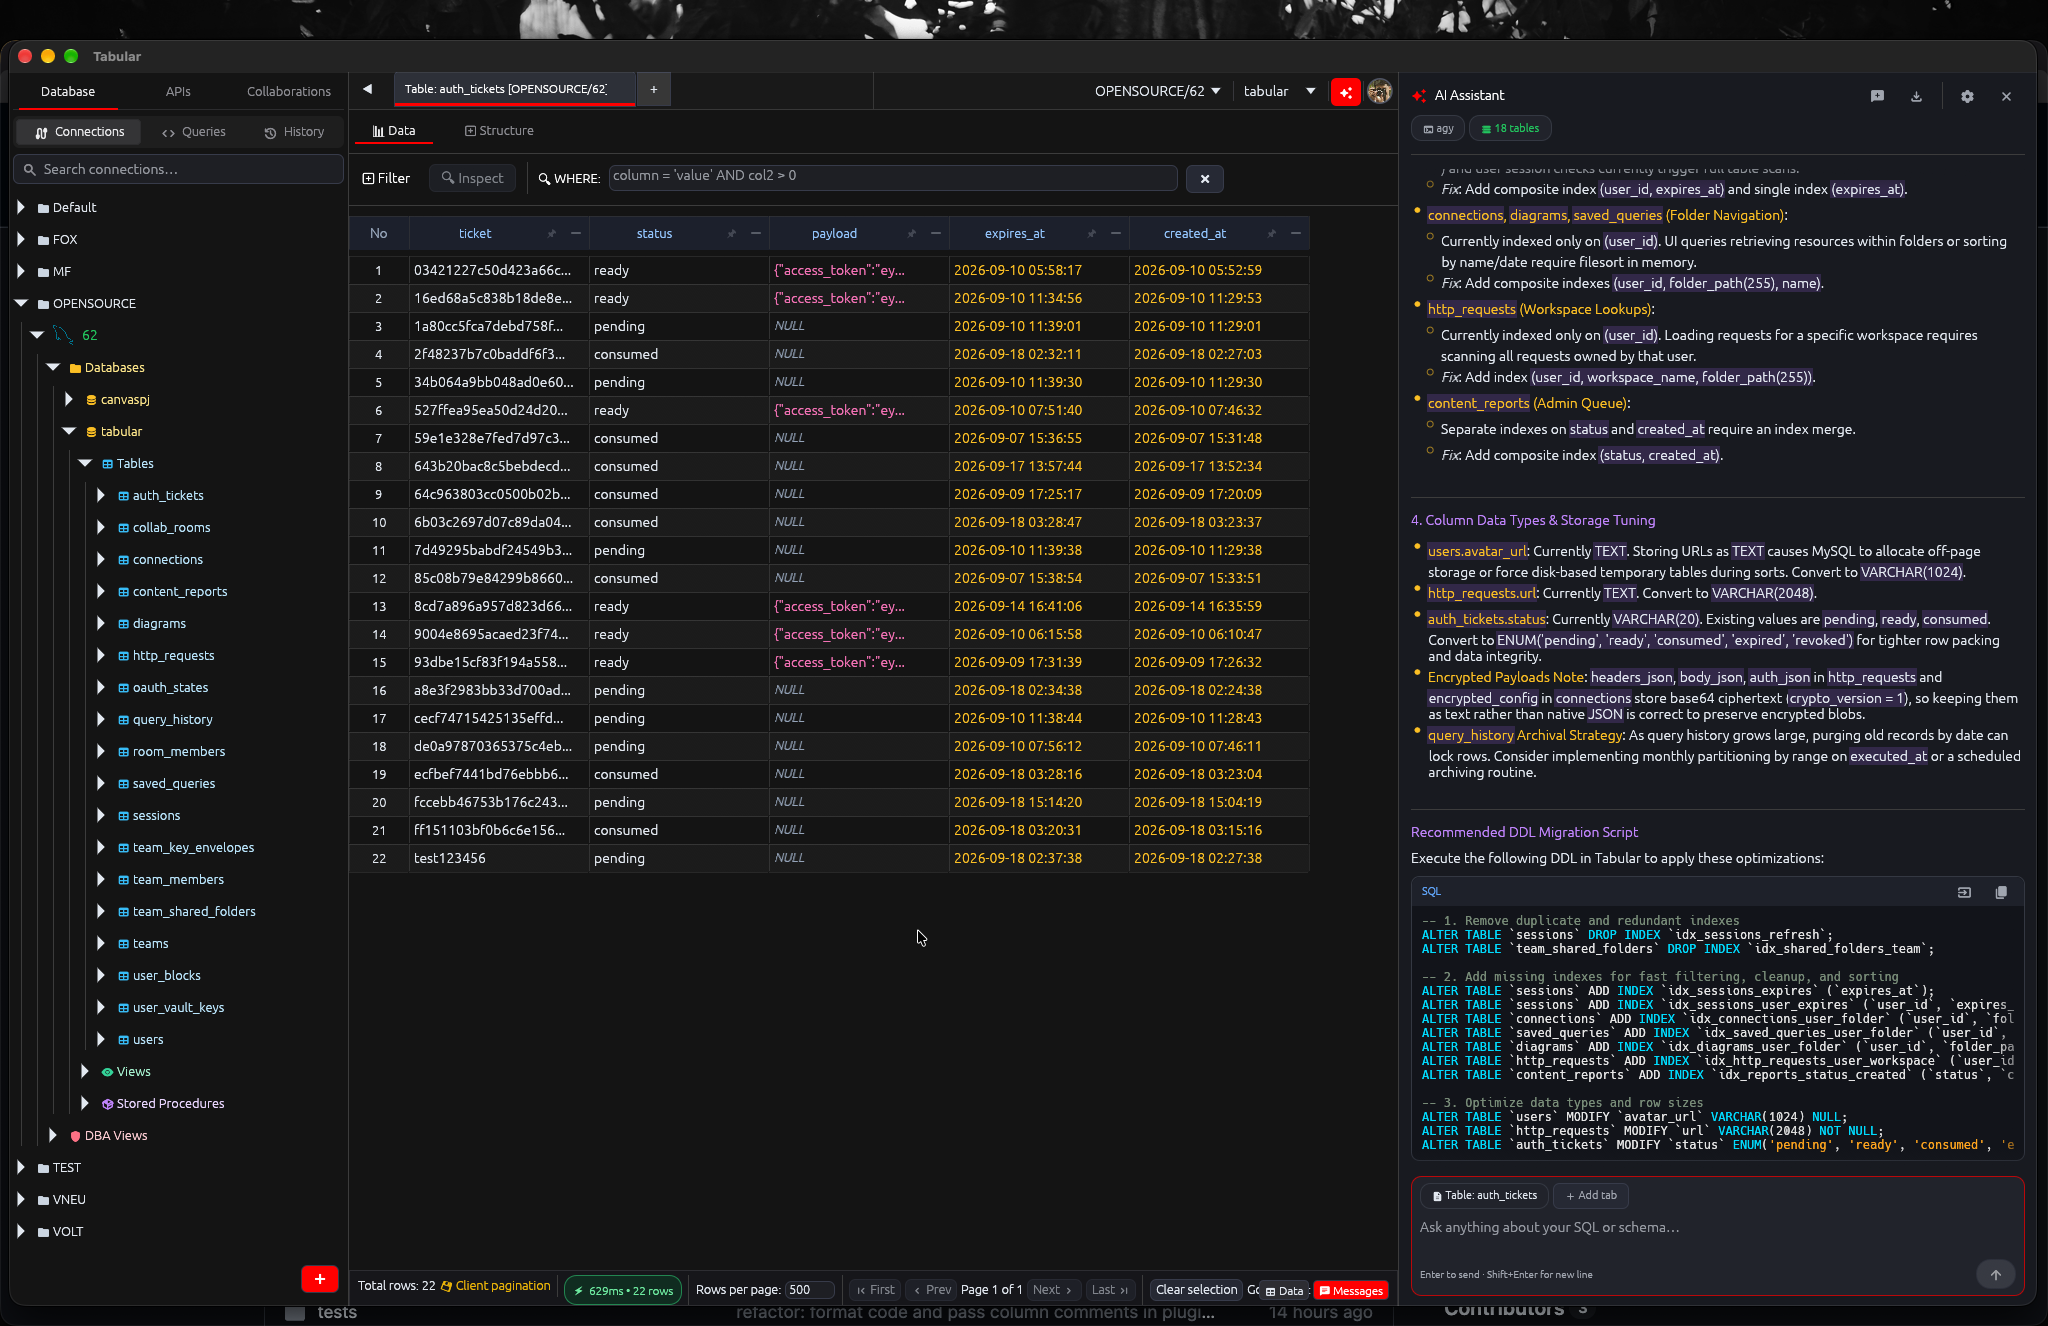
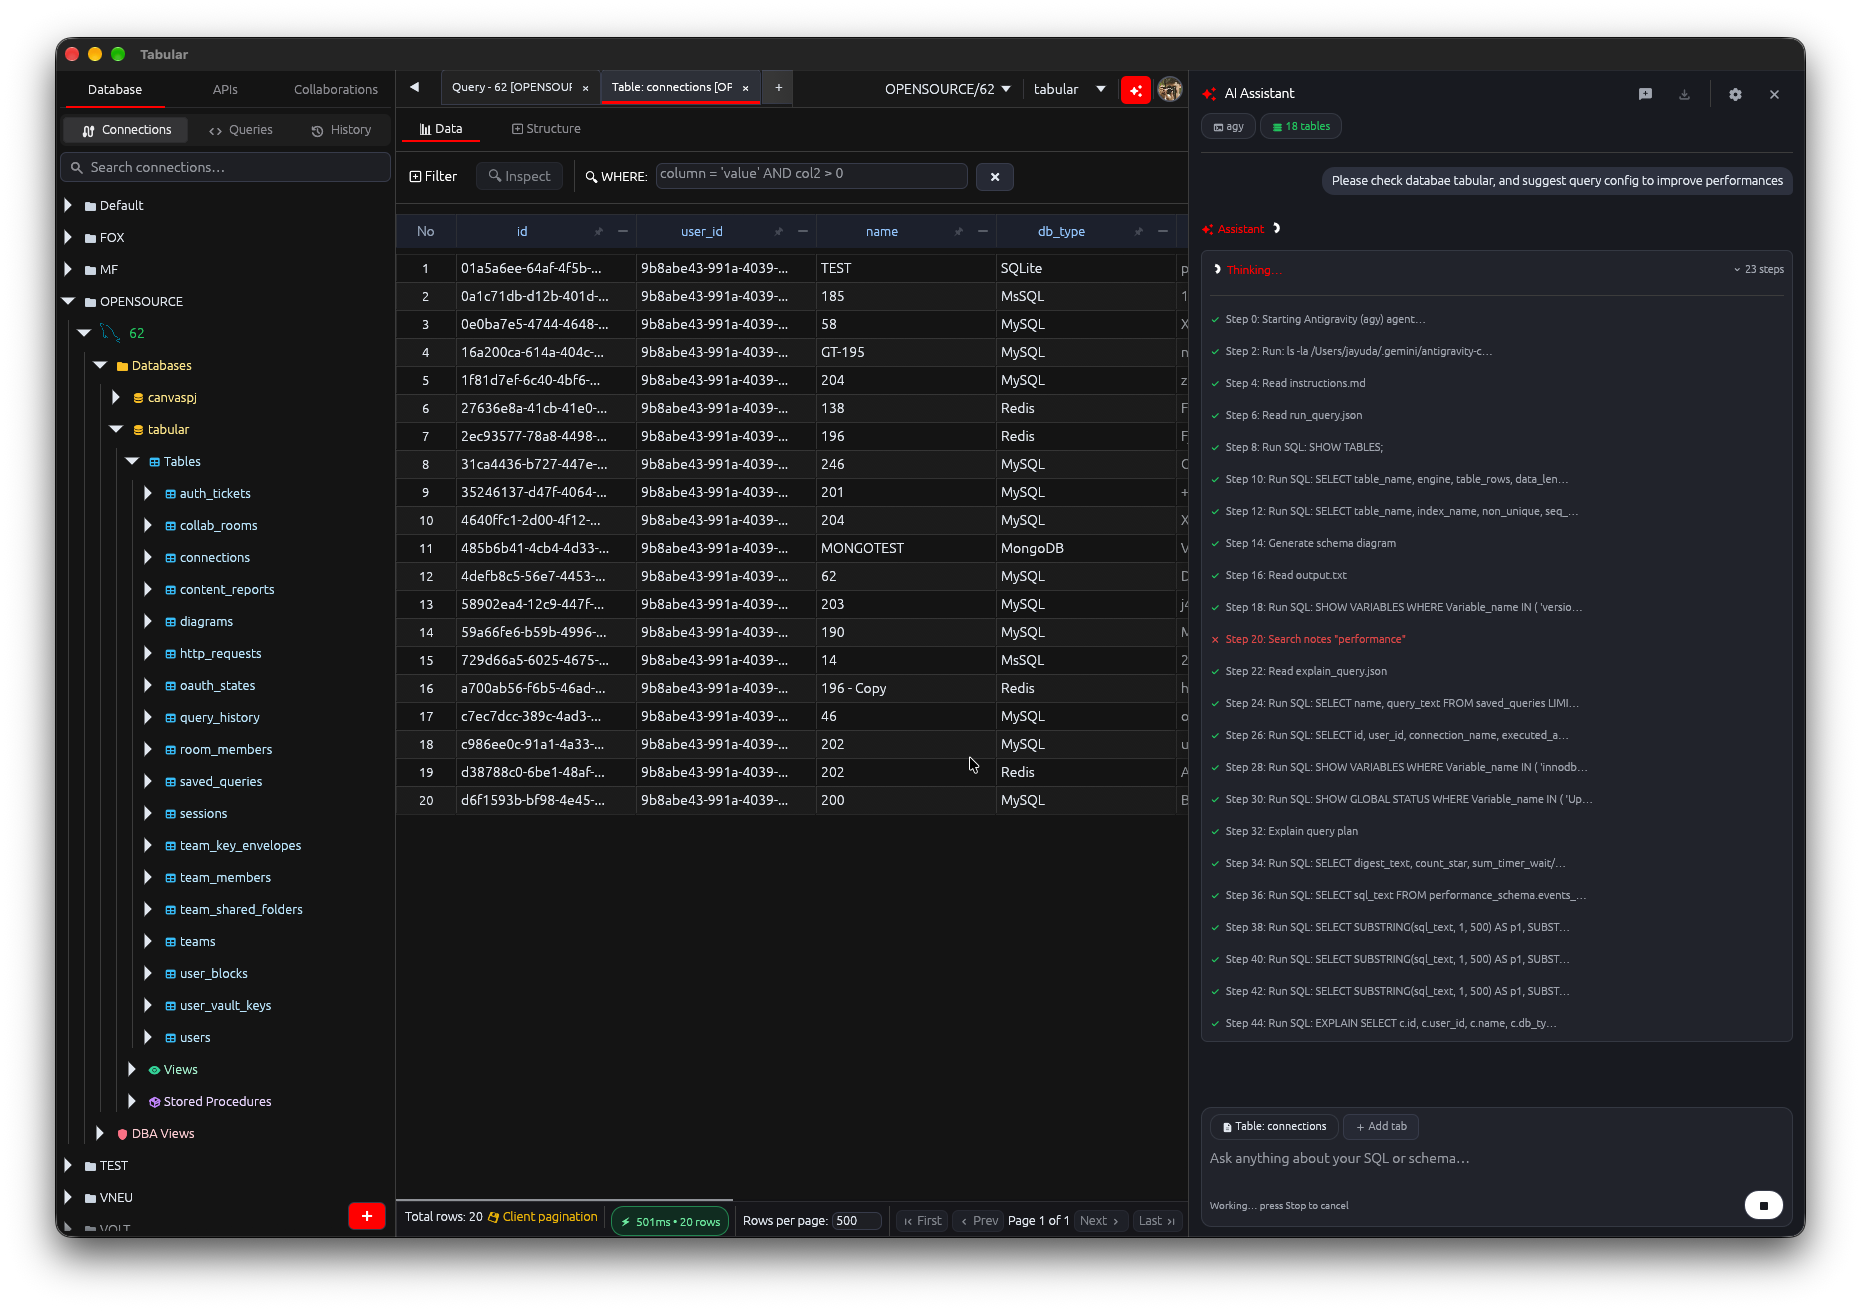
chore: bump version to 1.0.0 across project files

diff --git a/src/data_table/render_structure.rs b/src/data_table/render_structure.rs
@@ -403,43 +403,41 @@ pub(crate) fn render_structure_view(tabular: &mut window_egui::Tabular, ui: &mut
 
     ui.separator();
     ui.add_space(2.0);
-    egui::ScrollArea::both()
-                .id_salt("structure_scroll")
-                .auto_shrink([false, false])
-                .show(ui, |ui| {
-                    match tabular.structure_sub_view {
-                        models::structs::StructureSubView::Columns => {
-                            render_structure_columns_editor(tabular, ui);
-                        }
-                        models::structs::StructureSubView::Indexes => {
-                            // Headers: No | index_name | algorithm | unique | columns | actions
-                            let headers = [
-                                "#",
-                                "index_name",
-                                "algorithm",
-                                "unique",
-                                "columns",
-                                "actions",
-                            ];
-                            if tabular.structure_idx_col_widths.len() != headers.len() {
-                                tabular.structure_idx_col_widths =
-                                    vec![40.0, 200.0, 120.0, 70.0, 260.0, 120.0];
-                            }
-                            let mut widths = tabular.structure_idx_col_widths.clone();
-                            for w in widths.iter_mut() {
-                                *w = w.clamp(40.0, 800.0);
-                            }
-                            let dark = ui.visuals().dark_mode;
-                            let border = if dark {
-                                egui::Color32::from_rgb(55, 59, 74)
-                            } else {
-                                egui::Color32::from_rgb(203, 213, 225)
-                            };
-                            let stroke = egui::Stroke::new(0.5, border);
-                            let metrics = crate::window_egui::device_profile::DeviceUiMetrics::compute(ui.ctx(), tabular.ui_mode);
-                            let row_h = metrics.table_row_height;
-                            let header_h = metrics.table_row_height + 4.0;
-                            egui::ScrollArea::both()
+    match tabular.structure_sub_view {
+        models::structs::StructureSubView::Columns => {
+            render_structure_columns_editor(tabular, ui);
+        }
+        models::structs::StructureSubView::Indexes => {
+            // Headers: No | index_name | algorithm | unique | columns | actions
+            let headers = [
+                "#",
+                "index_name",
+                "algorithm",
+                "unique",
+                "columns",
+                "actions",
+            ];
+            if tabular.structure_idx_col_widths.len() != headers.len() {
+                tabular.structure_idx_col_widths = vec![40.0, 200.0, 120.0, 70.0, 260.0, 120.0];
+            }
+            let mut widths = tabular.structure_idx_col_widths.clone();
+            for w in widths.iter_mut() {
+                *w = w.clamp(40.0, 800.0);
+            }
+            let dark = ui.visuals().dark_mode;
+            let border = if dark {
+                egui::Color32::from_rgb(55, 59, 74)
+            } else {
+                egui::Color32::from_rgb(203, 213, 225)
+            };
+            let stroke = egui::Stroke::new(0.5, border);
+            let metrics = crate::window_egui::device_profile::DeviceUiMetrics::compute(
+                ui.ctx(),
+                tabular.ui_mode,
+            );
+            let row_h = metrics.table_row_height;
+            let header_h = metrics.table_row_height + 4.0;
+            egui::ScrollArea::both()
                                 .id_salt("struct_idx_inline")
                                 .auto_shrink([false, false])
                                 .show(ui, |ui| {
@@ -1034,8 +1032,8 @@ pub(crate) fn render_structure_view(tabular: &mut window_egui::Tabular, ui: &mut
                                                 // fit inside the fixed row height instead of the
                                                 // app-wide toolbar-sized padding (12,7).
                                                 child_ui.spacing_mut().button_padding = egui::vec2(6.0, 2.0);
-                                                // Safety net: never let a control paint outside its cell.
-                                                child_ui.set_clip_rect(rect);
+                                                // Safety net: never let a control paint outside its cell or outside visible area.
+                                                child_ui.set_clip_rect(rect.intersect(ui.clip_rect()));
 
                                                 match i {
                                                     0 => {
@@ -1177,10 +1175,9 @@ pub(crate) fn render_structure_view(tabular: &mut window_egui::Tabular, ui: &mut
                                         });
                                     }
                                 });
-                            tabular.structure_idx_col_widths = widths;
-                        }
-                    }
-                });
+            tabular.structure_idx_col_widths = widths;
+        }
+    }
 }
 
 pub(crate) fn render_structure_columns_editor(
@@ -1334,7 +1331,7 @@ pub(crate) fn render_structure_columns_editor(
                             );
                             child_ui.spacing_mut().item_spacing.x = 2.0;
                             child_ui.spacing_mut().button_padding = egui::vec2(6.0, 2.0);
-                            child_ui.set_clip_rect(rect);
+                            child_ui.set_clip_rect(rect.intersect(ui.clip_rect()));
 
                             match i {
                                 0 => {
@@ -1727,40 +1724,44 @@ pub(crate) fn render_structure_columns_editor(
                                     }
                                 }
                                 7 => {
-                                    // actions: Quick Edit & Drop buttons
-                                    let mut child_ui =
-                                        ui.new_child(egui::UiBuilder::new().max_rect(rect).layout(
-                                            egui::Layout::left_to_right(egui::Align::Center),
-                                        ));
-                                    child_ui.spacing_mut().item_spacing.x = 4.0;
-                                    child_ui.spacing_mut().button_padding = egui::vec2(5.0, 1.5);
-                                    child_ui.set_clip_rect(rect);
-                                    child_ui.add_space(4.0);
+                                    // actions: Quick Edit & Drop buttons (hanya render jika berada di dalam area tampak)
+                                    let visible_rect = rect.intersect(ui.clip_rect());
+                                    if visible_rect.is_positive() {
+                                        let mut child_ui = ui.new_child(
+                                            egui::UiBuilder::new().max_rect(rect).layout(
+                                                egui::Layout::left_to_right(egui::Align::Center),
+                                            ),
+                                        );
+                                        child_ui.spacing_mut().item_spacing.x = 4.0;
+                                        child_ui.spacing_mut().button_padding =
+                                            egui::vec2(5.0, 1.5);
+                                        child_ui.set_clip_rect(visible_rect);
+                                        child_ui.add_space(4.0);
 
-                                    let edit_btn = child_ui.add(
-                                        egui::Button::new(
-                                            egui::RichText::new(format!(
-                                                "{} Edit",
-                                                egui_icons::icons::ICON_EDIT.codepoint
-                                            ))
-                                            .size(11.5),
-                                        )
-                                        .corner_radius(4.0),
-                                    );
-                                    if edit_btn.on_hover_text("Edit this column").clicked() {
-                                        tabular.editing_column = true;
-                                        tabular.edit_column_original_name = col.name.clone();
-                                        tabular.edit_column_name = col.name.clone();
-                                        tabular.edit_column_type = col.data_type.clone();
-                                        tabular.edit_column_nullable = col.nullable.unwrap_or(true);
-                                        tabular.edit_column_default =
-                                            col.default_value.clone().unwrap_or_default();
-                                        tabular.edit_column_comment =
-                                            col.comment.clone().unwrap_or_default();
-                                    }
+                                        let edit_btn = child_ui.add(
+                                            egui::Button::new(
+                                                egui::RichText::new(format!(
+                                                    "{} Edit",
+                                                    egui_icons::icons::ICON_EDIT.codepoint
+                                                ))
+                                                .size(11.5),
+                                            )
+                                            .corner_radius(4.0),
+                                        );
+                                        if edit_btn.on_hover_text("Edit this column").clicked() {
+                                            tabular.editing_column = true;
+                                            tabular.edit_column_original_name = col.name.clone();
+                                            tabular.edit_column_name = col.name.clone();
+                                            tabular.edit_column_type = col.data_type.clone();
+                                            tabular.edit_column_nullable =
+                                                col.nullable.unwrap_or(true);
+                                            tabular.edit_column_default =
+                                                col.default_value.clone().unwrap_or_default();
+                                            tabular.edit_column_comment =
+                                                col.comment.clone().unwrap_or_default();
+                                        }
 
-                                    let del_btn =
-                                        child_ui.add(
+                                        let del_btn = child_ui.add(
                                             egui::Button::new(
                                                 egui::RichText::new(format!(
                                                     "{} Drop",
@@ -1773,8 +1774,9 @@ pub(crate) fn render_structure_columns_editor(
                                             )
                                             .corner_radius(4.0),
                                         );
-                                    if del_btn.on_hover_text("Drop this column").clicked() {
-                                        trigger_drop_column(tabular, &col.name);
+                                        if del_btn.on_hover_text("Drop this column").clicked() {
+                                            trigger_drop_column(tabular, &col.name);
+                                        }
                                     }
                                 }
                                 _ => {}
@@ -2025,8 +2027,8 @@ pub(crate) fn render_structure_columns_editor(
                         // Compact widget padding so ComboBox/Button controls fit inside the
                         // fixed row height instead of the app-wide toolbar-sized padding (12,7).
                         child_ui.spacing_mut().button_padding = egui::vec2(6.0, 2.0);
-                        // Safety net: never let a control paint outside its cell.
-                        child_ui.set_clip_rect(rect);
+                        // Safety net: never let a control paint outside its cell or outside visible area.
+                        child_ui.set_clip_rect(rect.intersect(ui.clip_rect()));
 
                         match i {
                             0 => {

diff --git a/SECURITY.md b/SECURITY.md
@@ -40,8 +40,8 @@ Security updates are actively provided for the current release series:
 
 | Version | Supported          |
 | ------- | ------------------ |
-| 0.18.x | :white_check_mark: |
-| < 0.18.0 | :x:                |
+| 1.0.x  | :white_check_mark: |
+| < 1.0.0 | :x:                |
 
 ## Reporting a Vulnerability
 
